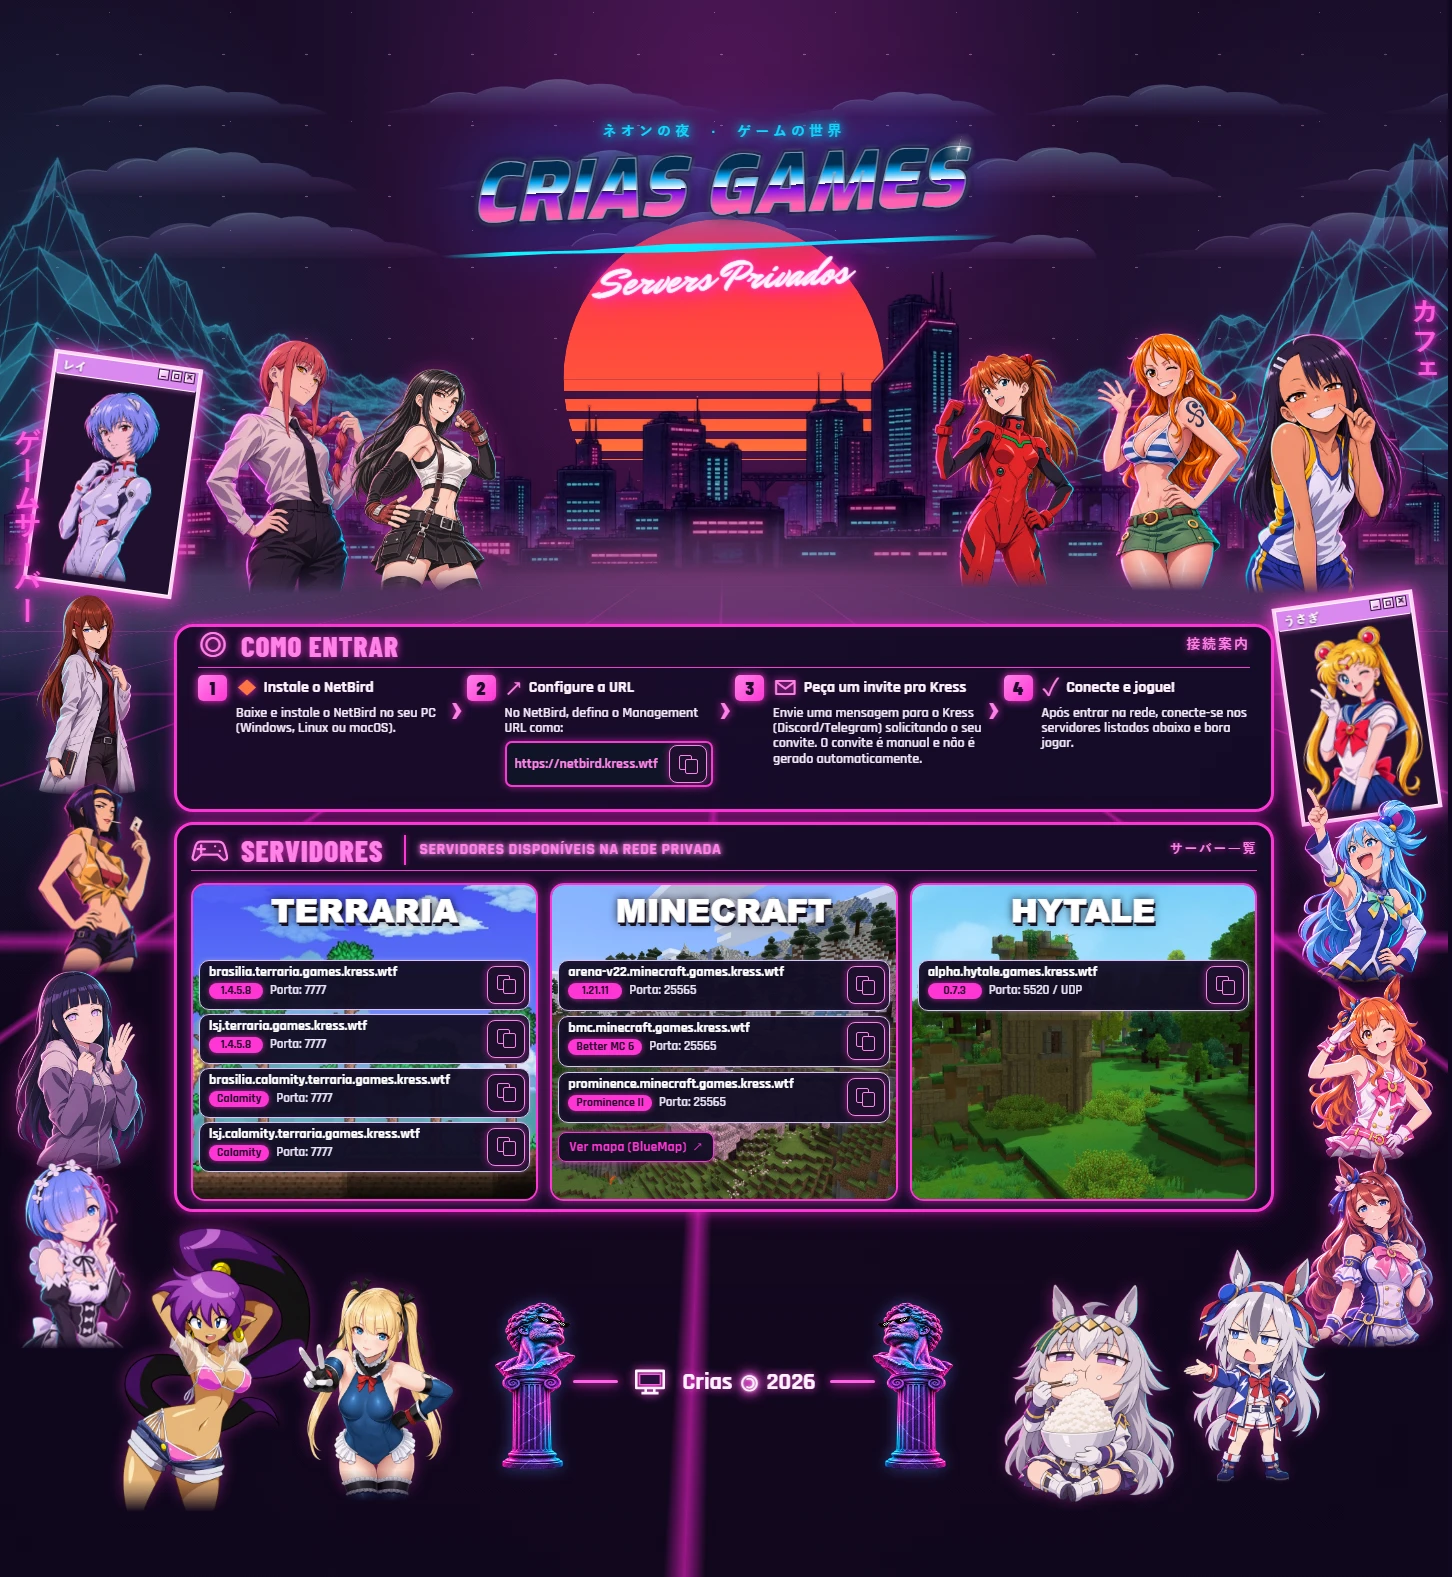
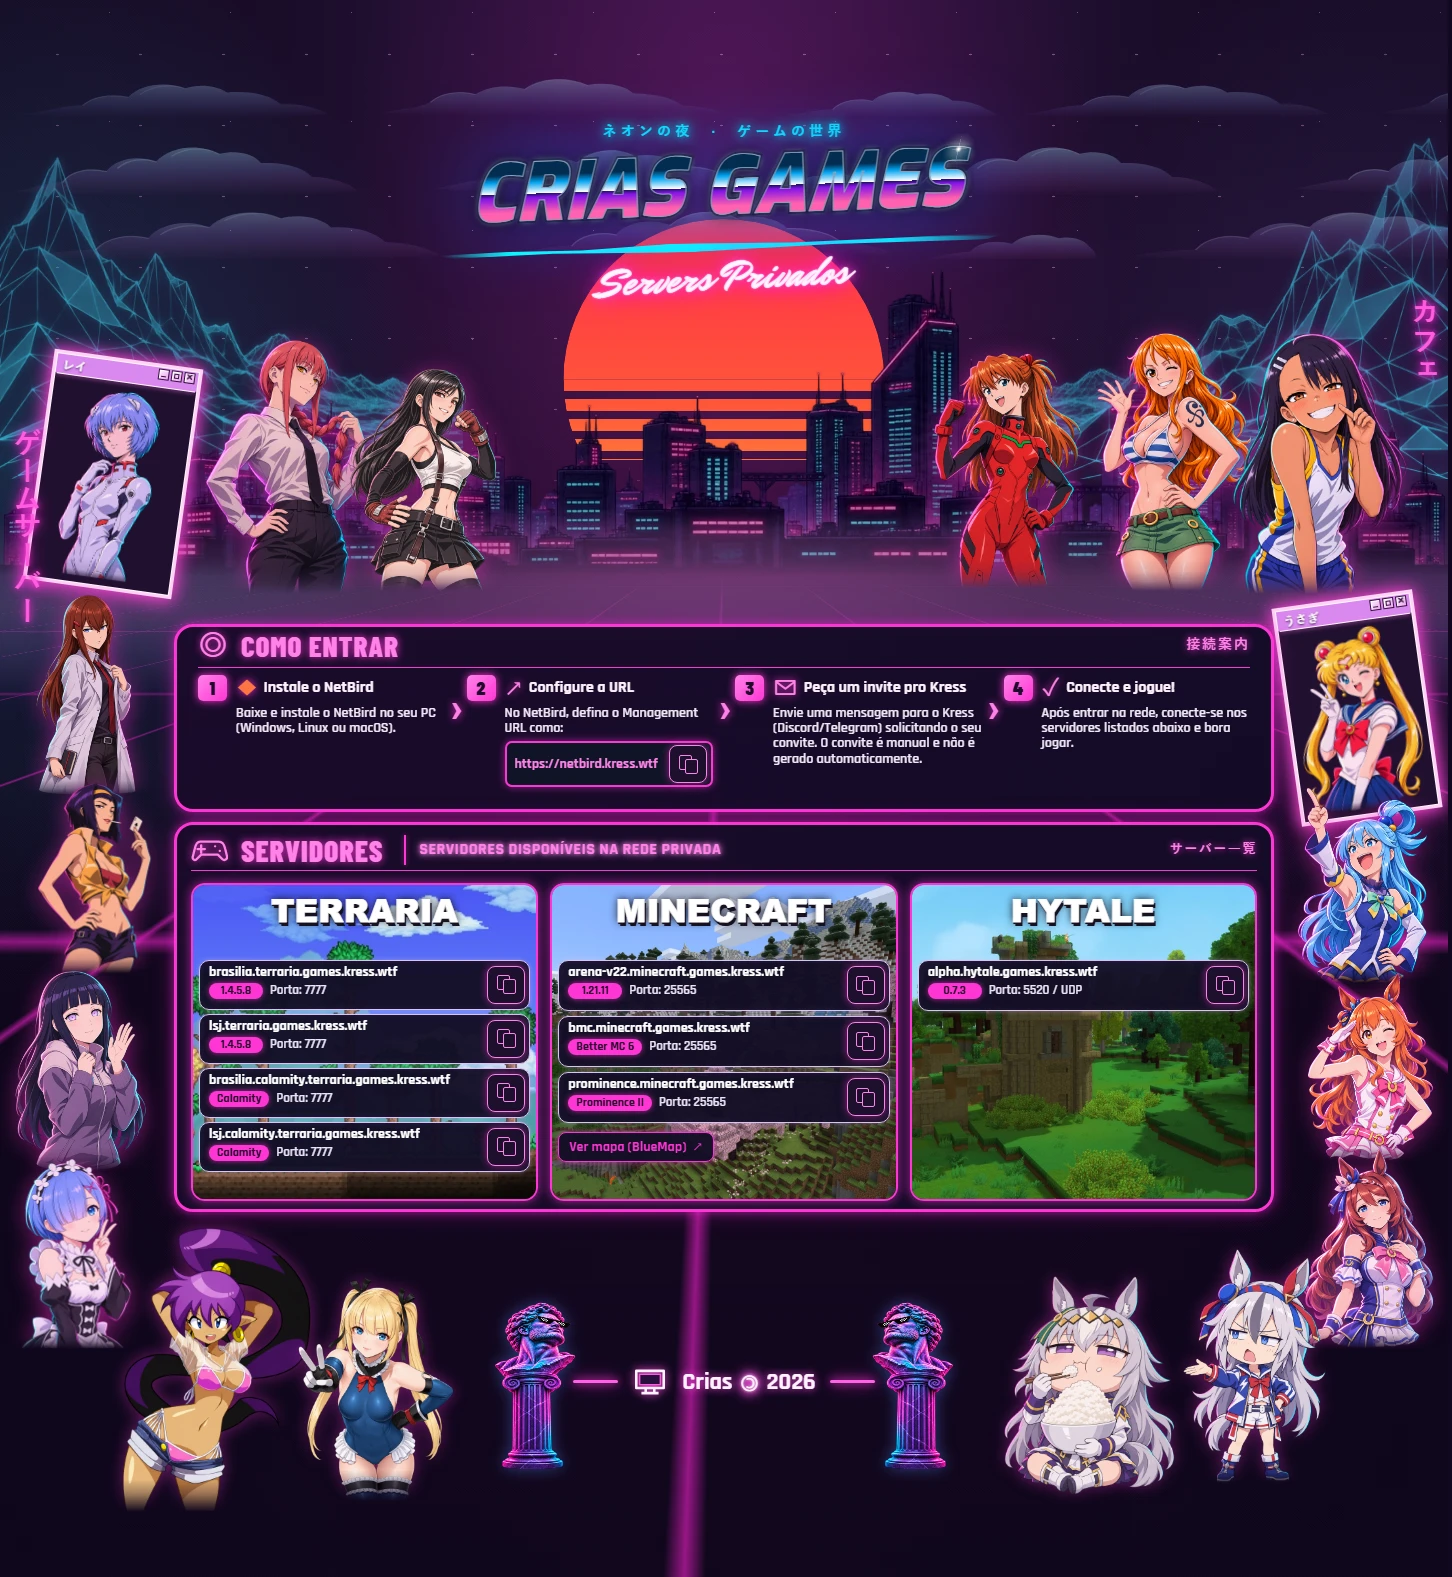
Raise Oguri Cap in footer

Changed region(s): [[0.6818, 0.8079, 0.8058, 0.9632]]

diff --git a/src/assets/site.css b/src/assets/site.css
@@ -195,7 +195,7 @@ main, .site-footer { position: relative; z-index: 2; }
 .footer-character { position:absolute; display:block; width:220px; height:auto; object-fit:contain; pointer-events:none; transform:translate(-10%,-10%); filter:drop-shadow(0 0 8px #ff35d563); animation:billboard 6.6s ease-in-out infinite alternate,portrait-neon-pulse 7.3s ease-in-out infinite; -webkit-mask-image:linear-gradient(to bottom,#000 0 81%,#000a 85%,transparent 90%); mask-image:linear-gradient(to bottom,#000 0 81%,#000a 85%,transparent 90%); }
 .footer-character--shantae { left:-5px; top:12px; width:240px; animation-delay:-2.3s; }
 .footer-character--marie { left:195px; top:50px; width:210px; animation-delay:-4.2s; -webkit-mask-image:linear-gradient(to bottom,#000 0 76%,#000a 81%,transparent 86%); mask-image:linear-gradient(to bottom,#000 0 76%,#000a 81%,transparent 86%); }
-.footer-character--oguri { right:160px; top:46px; width:220px; transform:translate(10%,-10%); animation-delay:-1.4s; }
+.footer-character--oguri { right:160px; top:38px; width:220px; transform:translate(10%,-10%); animation-delay:-1.4s; }
 .footer-character--tamamo { right:4px; top:34px; width:200px; transform:translate(10%,-10%); animation-delay:-5.2s; }
 @media (min-width:1425px) {
   .footer-collage { --footer-character-outward:clamp(32px,calc(3.4vw - 17px),48px); }

diff --git a/openspec/specs/website-experience/spec.md b/openspec/specs/website-experience/spec.md
@@ -37,7 +37,7 @@ The desktop collage SHALL preserve the fourteen named reference characters in th
 - **THEN** the individual characters and bust frame the content without covering text, controls or each other's essential features
 
 ### Requirement: Footer character collage
-The footer SHALL include separate transparent illustrations of Shantae and anime Marie Rose on the left, and chibi Oguri Cap eating rice with chibi Tamamo Cross reacting on the right. On wide desktop layouts, the cumulative outward offsets SHALL be about 48–64px for Shantae, 80–96px for Marie Rose, and 64–80px for Oguri and Tamamo, preserving clear space around the centered signature, side-column portraits and each other. In the footer collage, Shantae and Tamamo SHALL sit 8px higher, while Marie Rose and Oguri SHALL sit 16px higher than their previous positions. Their numbered masters and derivatives SHALL be preserved with recorded provenance, clear silhouettes, alpha clearance for glow and CSS bottom fades. The four new characters SHALL supplement the original fourteen, with no backgrounds or photo frames, and SHALL leave the centered footer signature and controls unobscured. Both footer bust statues SHALL remain static and mirrored around the signature, each 16px farther from the page center than before.
+The footer SHALL include separate transparent illustrations of Shantae and anime Marie Rose on the left, and chibi Oguri Cap eating rice with chibi Tamamo Cross reacting on the right. On wide desktop layouts, the cumulative outward offsets SHALL be about 48–64px for Shantae, 80–96px for Marie Rose, and 64–80px for Oguri and Tamamo, preserving clear space around the centered signature, side-column portraits and each other. In the footer collage, Shantae and Tamamo SHALL sit 8px higher, Marie Rose 16px higher, and Oguri 24px higher than their previous positions. Their numbered masters and derivatives SHALL be preserved with recorded provenance, clear silhouettes, alpha clearance for glow and CSS bottom fades. The four new characters SHALL supplement the original fourteen, with no backgrounds or photo frames, and SHALL leave the centered footer signature and controls unobscured. Both footer bust statues SHALL remain static and mirrored around the signature, each 16px farther from the page center than before.
 
 #### Scenario: Footer character collage
 - **WHEN** a visitor scrolls to the bottom of the desktop page

diff --git a/openspec/changes/build-mockup-faithful-site/specs/website-experience/spec.md b/openspec/changes/build-mockup-faithful-site/specs/website-experience/spec.md
@@ -162,7 +162,7 @@ On desktop, the six upper portraits SHALL be positioned by their visible artwork
 
 
 ### Requirement: Footer character collage
-The footer SHALL also include four independent transparent character illustrations: Shantae, anime Marie Rose, chibi Oguri Cap eating rice, and chibi Tamamo Cross reacting to her. Shantae and Marie Rose SHALL occupy the left footer spaces; Oguri and Tamamo SHALL form the food joke on the right. On wide desktop layouts, all four characters SHALL move outward from the centered signature on top of the earlier offsets: Shantae gains another 16px, Marie Rose another 48px, Oguri another 32px, and Tamamo another 32px, staying clear of side-column portraits and each other. Vertically, Shantae and Tamamo SHALL move up 8px and Marie Rose and Oguri SHALL move up 16px from the previous footer layout. These assets SHALL retain numbered masters and derivatives, complete silhouettes, glow clearance and CSS bottom fades without photo backgrounds, and SHALL NOT obscure the footer signature or actionable content.
+The footer SHALL also include four independent transparent character illustrations: Shantae, anime Marie Rose, chibi Oguri Cap eating rice, and chibi Tamamo Cross reacting to her. Shantae and Marie Rose SHALL occupy the left footer spaces; Oguri and Tamamo SHALL form the food joke on the right. On wide desktop layouts, all four characters SHALL move outward from the centered signature on top of the earlier offsets: Shantae gains another 16px, Marie Rose another 48px, Oguri another 32px, and Tamamo another 32px, staying clear of side-column portraits and each other. Vertically, Shantae and Tamamo SHALL move up 8px, Marie Rose 16px, and Oguri 24px from the previous footer layout. These assets SHALL retain numbered masters and derivatives, complete silhouettes, glow clearance and CSS bottom fades without photo backgrounds, and SHALL NOT obscure the footer signature or actionable content.
 
 #### Scenario: Footer character collage
 - **WHEN** the full desktop page is scrolled to its footer

diff --git a/docs/review/visual-review.md b/docs/review/visual-review.md
@@ -183,6 +183,6 @@ Replaced the separate mountain artwork with one generated transparent panorama, 
 
 The cloud layers now have explicit depth and speed: the 75s far layer is behind the mountains; the 47s middle and 31s near layers pass in front; the skyline remains above all three. All cloud strips loop toward the left and stay within the sky.
 
-The footer characters moved outward again: Shantae by 16px, Marie Rose by 48px, Oguri by 32px and Tamamo by 32px. Shantae/Tamamo then moved up 8px and Marie/Oguri 16px. Each bust statue moved 16px farther from page center and has no motion animation. At 1448px, character positions (x, y) are (97, 1188), (268, 1230), (980, 1225) and (1154, 1216)px; statue x-positions are 463 and 840px. At 1920px, character positions (x, y) are (317, 1184), (488, 1227), (1232, 1221) and (1406, 1212)px; statue x-positions are 699 and 1076px. The subtitle renders exactly as `Servers Privados`.
+The footer characters moved outward again: Shantae by 16px, Marie Rose by 48px, Oguri by 32px and Tamamo by 32px. Shantae/Tamamo moved up 8px, Marie 16px and Oguri 24px. Each bust statue moved 16px farther from page center and has no motion animation. At 1448px, character positions (x, y) are (97, 1188), (268, 1230), (980, 1217) and (1154, 1216)px; statue x-positions are 463 and 840px. At 1920px, character positions (x, y) are (317, 1184), (488, 1227), (1232, 1213) and (1406, 1212)px; statue x-positions are 699 and 1076px. The subtitle renders exactly as `Servers Privados`.
 
 Full-page desktop captures `screenshots/mountains-footer-1448-2026-11-10.webp` and `screenshots/mountains-footer-1920-2026-11-10.webp` were visually inspected. The production build reported eight server records. Browser review at 1448 × 1086 and 1920 × 1080 found no horizontal overflow, broken images, failed requests or page errors. Preview remains on port 4173.

diff --git a/openspec/changes/build-mockup-faithful-site/design.md b/openspec/changes/build-mockup-faithful-site/design.md
@@ -131,7 +131,7 @@ Use the right column as the reference for vertical rhythm. Raise the first three
 
 ### 15. Footer character spacing
 
-Move the four footer illustrations farther outward on wide desktops, on top of the earlier offsets: Shantae gains another 16px, Marie Rose another 48px, Oguri another 32px and Tamamo another 32px. This produces cumulative outward offsets of about 48–64px for Shantae, 80–96px for Marie, and 64–80px for Oguri/Tamamo across 1448–1920px. Move each footer statue 16px farther from page center and keep both static. Then raise Shantae and Tamamo by 8px and Marie Rose and Oguri by 16px. Check that the outer illustrations do not crowd the lower side-column portraits or clip their glow.
+Move the four footer illustrations farther outward on wide desktops, on top of the earlier offsets: Shantae gains another 16px, Marie Rose another 48px, Oguri another 32px and Tamamo another 32px. This produces cumulative outward offsets of about 48–64px for Shantae, 80–96px for Marie, and 64–80px for Oguri/Tamamo across 1448–1920px. Move each footer statue 16px farther from page center and keep both static. Then raise Shantae and Tamamo by 8px, Marie Rose by 16px and Oguri by 24px. Check that the outer illustrations do not crowd the lower side-column portraits or clip their glow.
 
 ### 16. Mountain valley and subtitle casing
 

diff --git a/openspec/changes/build-mockup-faithful-site/tasks.md b/openspec/changes/build-mockup-faithful-site/tasks.md
@@ -101,3 +101,4 @@ Implement in dependency order. Read both persistent specs, both change specs, `d
 - [x] 8.24 Layer the slow far clouds behind the mountains and the faster mid/near cloud layers in front of them; keep all clouds behind the city and inside the sky. Verify the z-order and leftward parallax at desktop widths; run the build.
 - [x] 8.25 Keep both footer bust statues completely static and move them 16px farther from page center while preserving their mirrored composition. Inspect full-page desktop captures.
 - [x] 8.26 Raise Shantae and Tamamo 8px, and Marie Rose and Oguri 16px from their current footer positions. Inspect full-page desktop captures at 1448px and 1920px; run the build.
+- [x] 8.27 Move Oguri Cap another 8px up. Inspect full-page desktop captures at 1448px and 1920px; run the build.
